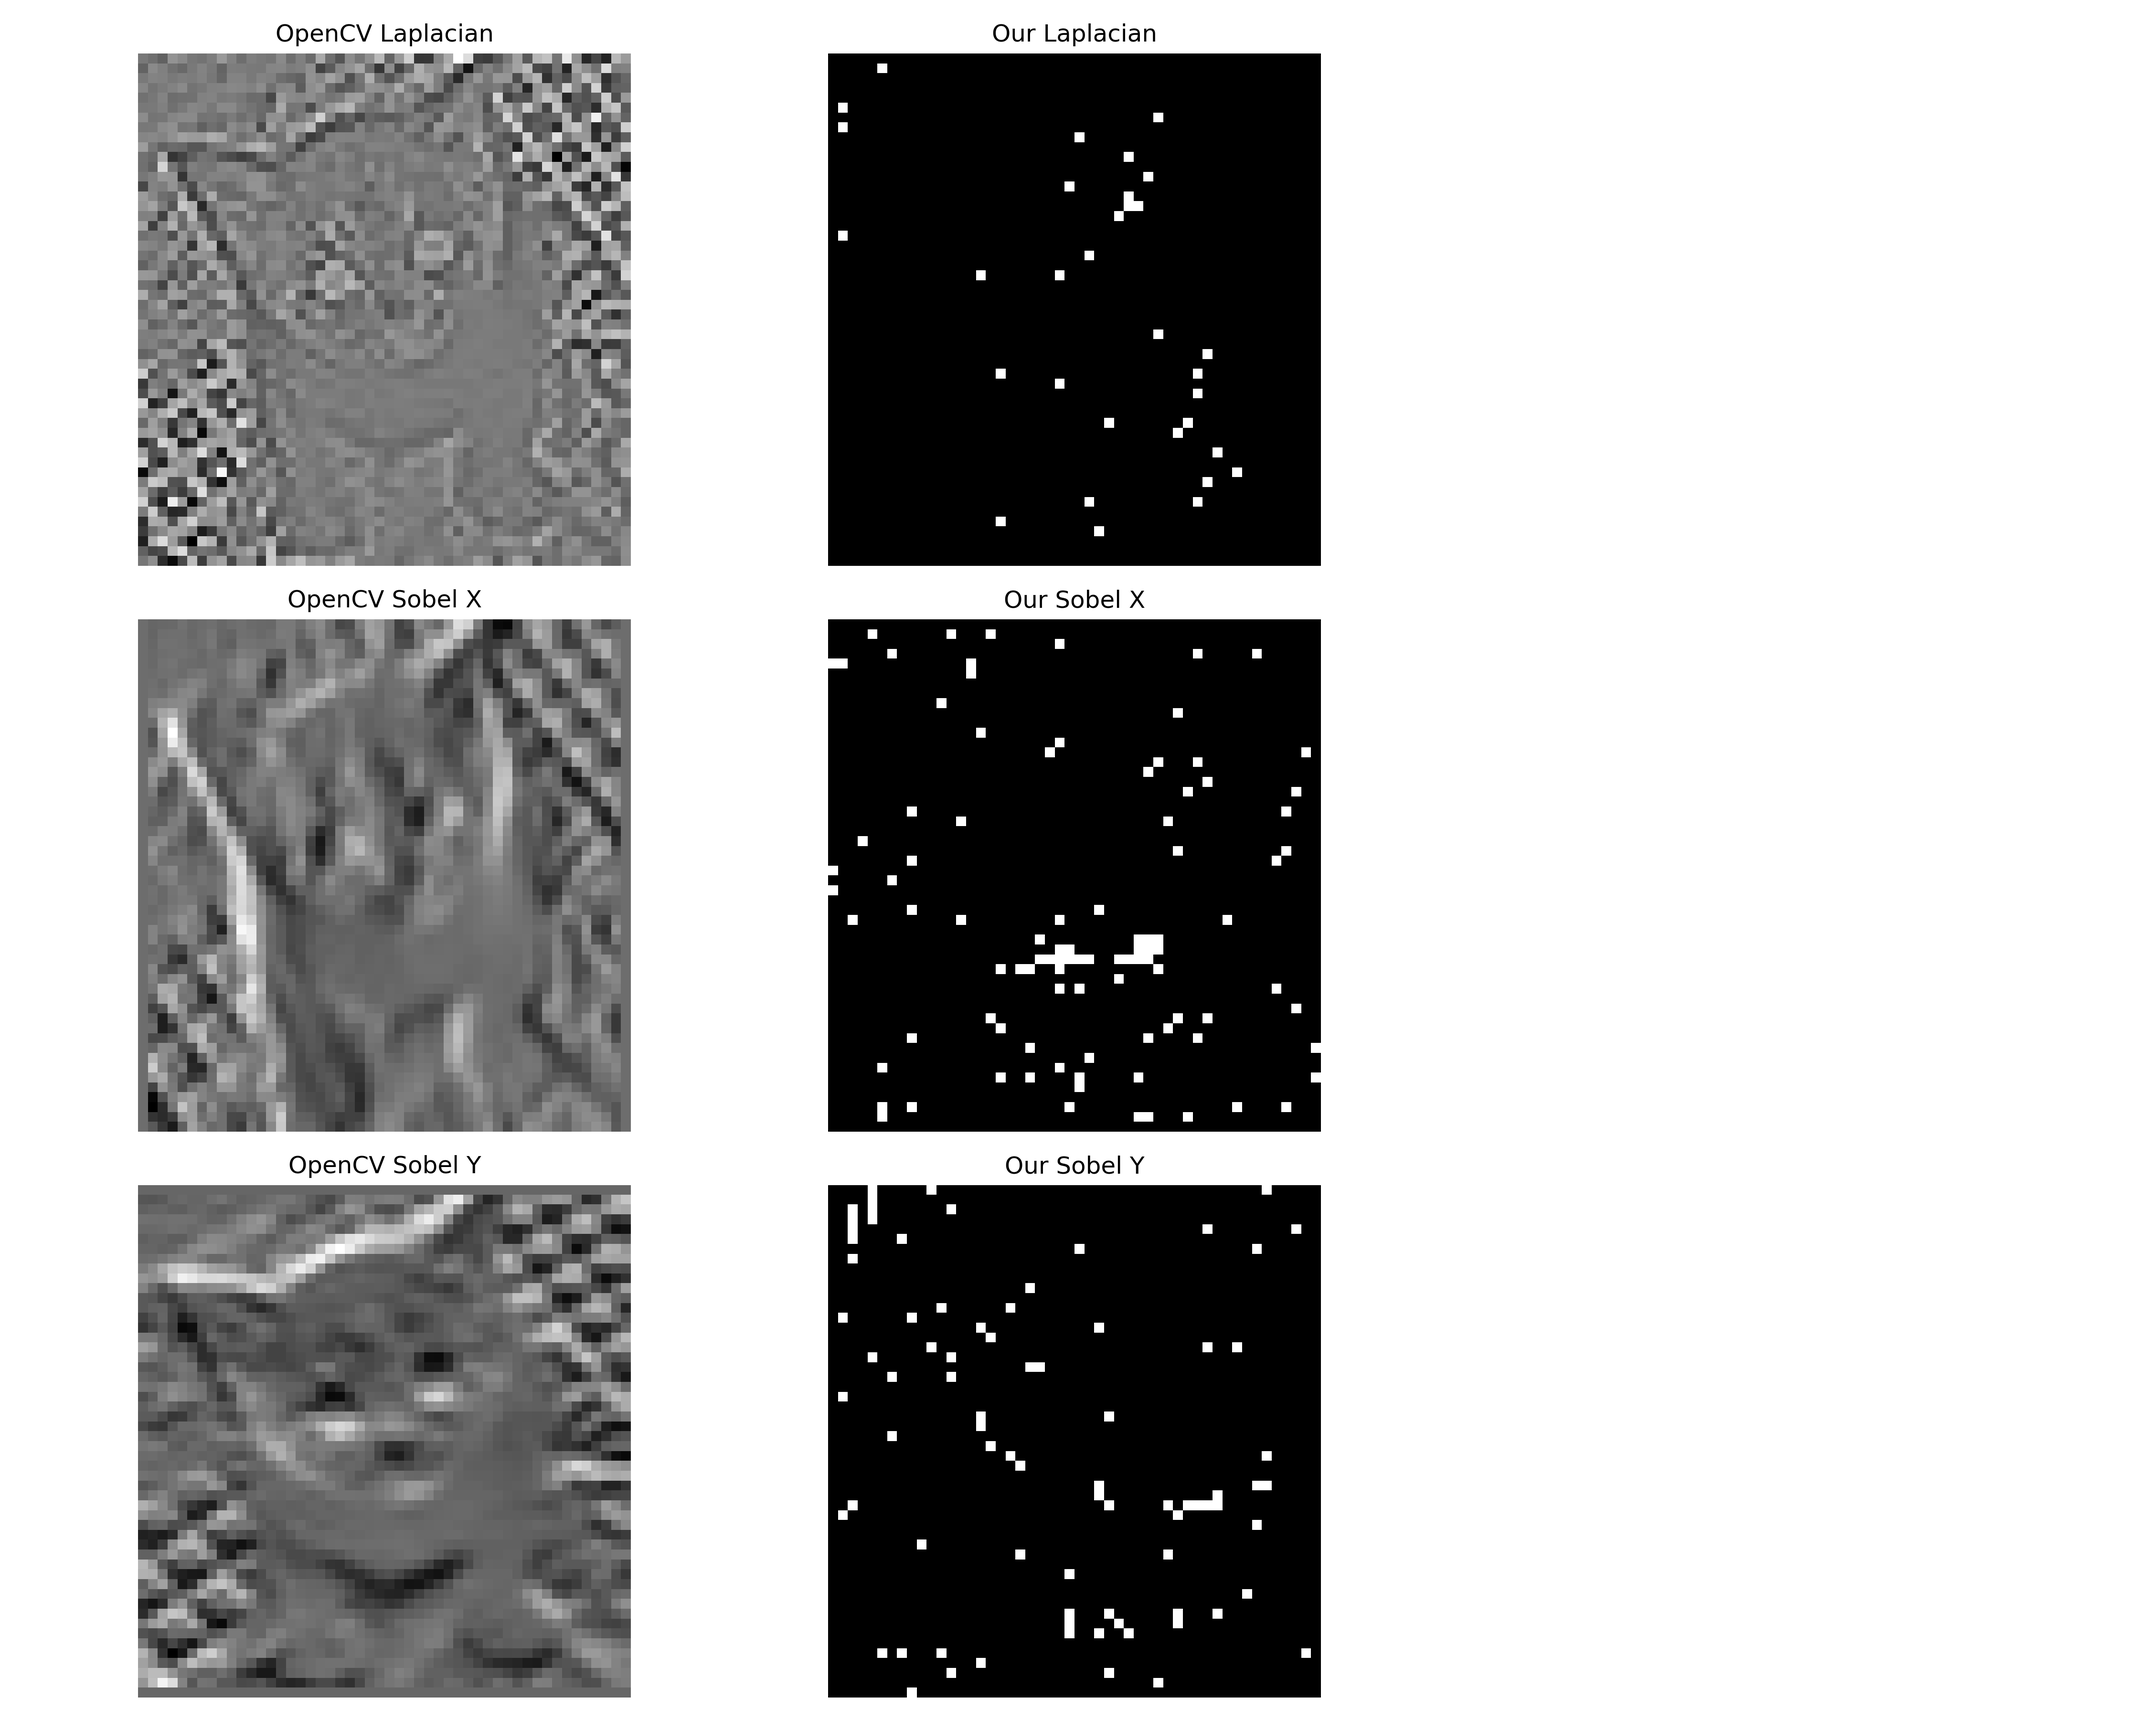
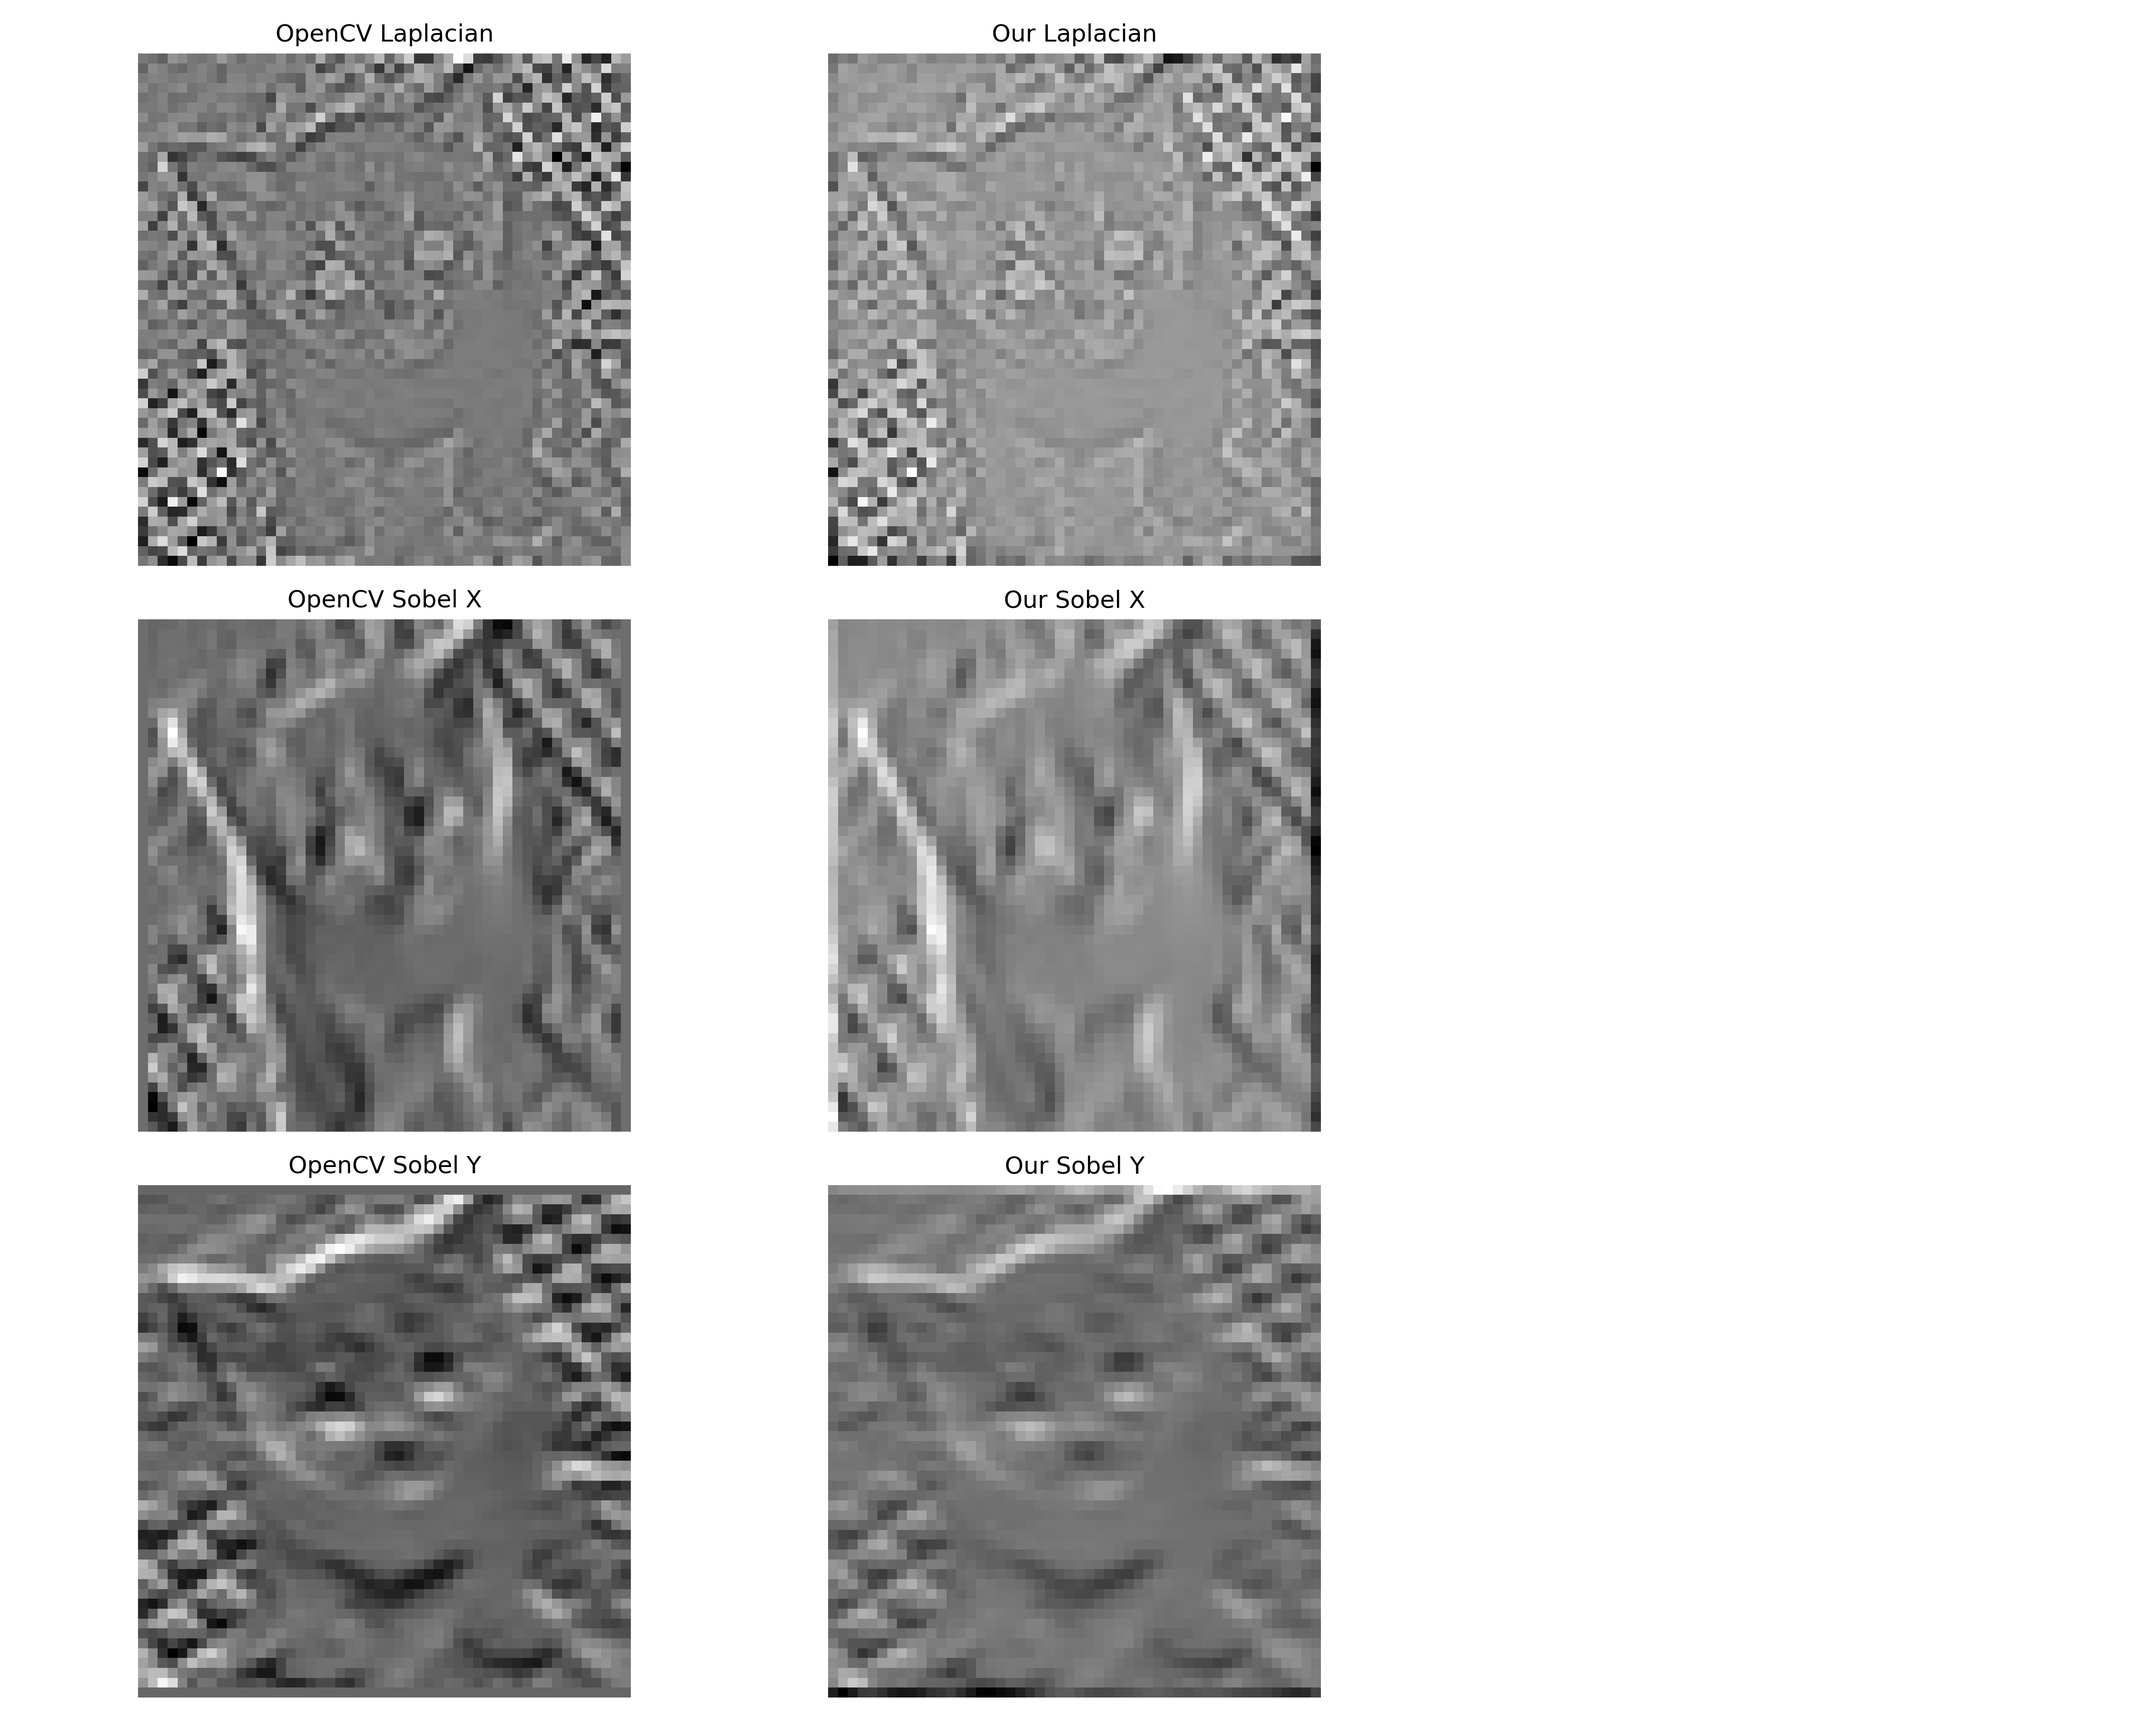
major fixes to laplacian and sobel filters; small known bugs remaining: padding of blur filters, contrast/remapped values

Changed region(s): [[0.3733, 0.0311, 0.6222, 0.9956]]

diff --git a/assignment1/filtering.py b/assignment1/filtering.py
@@ -4,7 +4,10 @@
 
 import numpy as np
 from typing import Tuple, Union
+
+# ONLY FOR TESTING
 import cv2 #delete later
+import matplotlib.pyplot as plt #delete later
 
 # 10%
 def convolve2d(image: np.ndarray, kernel: np.ndarray, padding_mode: str = 'constant') -> np.ndarray:
@@ -143,21 +146,22 @@ def laplacian_filter(image: np.ndarray, kernel_type: str = 'standard',
     # TODO: Implement the Laplacian filter
     # 1. Define the appropriate Laplacian kernel based on kernel_type
     # 2. Apply convolution using the convolve2d function
+    image = image.astype(np.float32)
+
     if kernel_type == "standard":
         kernel = np.array([
-                            [ 0, -1,  0],
-                            [-1,  4, -1],
-                            [ 0, -1,  0]
+                            [ 0, 1,  0],
+                            [1,  -4, 1],
+                            [ 0, 1,  0]
                         ])
-
     elif kernel_type == "diagonal":
         kernel = np.array([
-                            [ 0,  0, -1],
-                            [ 0,  4,  0],
-                            [-1,  0,  0]
+                            [ 1,  1, 1],
+                            [ 1,  -8,  1],
+                            [1,  1,  1]
                         ])
     res = convolve2d(image, kernel, padding_mode)
-    print("laplacian info:", res.shape, res[0])
+    # print("laplacian info:", res.shape, res[0])
     return res
 
 #10%
@@ -181,7 +185,8 @@ def sobel_filter(image: np.ndarray, direction: str = 'both', kernel_size: int = 
     # 2. Apply convolution based on the specified direction
     # 3. For 'both' direction, compute gradient magnitude and direction
     # 4. Return appropriate output based on direction parameter
-    
+    image = image.astype(np.float32)
+
     sobel_x = np.zeros((kernel_size, kernel_size))
     sobel_y = np.zeros((kernel_size, kernel_size))
     
@@ -201,8 +206,8 @@ def sobel_filter(image: np.ndarray, direction: str = 'both', kernel_size: int = 
 
     for i in range(kernel_size):
         for j in range(kernel_size):
-            sobel_x[i,j] = i - center
-            sobel_y[i,j] = j - center
+            sobel_x[i,j] = j - center
+            sobel_y[i,j] = i - center
 
     sobel_x /= np.sum(np.abs(sobel_x))
     sobel_y /= np.sum(np.abs(sobel_y))
@@ -229,7 +234,9 @@ def normalize_image(image: np.ndarray) -> np.ndarray:
     Normalize image values to range [0, 255] and convert to uint8.
     """
     min_val = np.min(image)
+    # print(min_val)
     max_val = np.max(image)
+    # print(max_val)
     
     # Check to avoid division by zero
     if max_val == min_val:
@@ -273,7 +280,6 @@ def add_noise(image: np.ndarray, noise_type: str = 'gaussian', var: float = 0.01
     else:
         raise ValueError("Unknown noise type. Use 'gaussian' or 'salt_pepper'")
     
-
 # ----------------------- HELPER FUNCTIONS ---------------------------
 def convolve_single_channel(image, kernel, padding_mode):
     n, m = kernel.shape
@@ -295,17 +301,3 @@ def convolve_single_channel(image, kernel, padding_mode):
             output[row-half_n, col-half_m] = np.sum(selection * kernel)
             
     return output
-
-#================================== DELETE LATER / SIMPLE TESTING
-image_path = "assignment1/example_images/test.jpg"
-image = cv2.imread(image_path)
-if image is None:
-    raise ValueError(f"Could not read image at {image_path}")
-
-# Convert to RGB for display
-image_rgb = cv2.cvtColor(image, cv2.COLOR_BGR2RGB)
-
-# Convert to grayscale for edge detection
-gray = cv2.cvtColor(image, cv2.COLOR_BGR2GRAY)
-
-##================================== STOP DELETE

diff --git a/assignment1/test_filters.py b/assignment1/test_filters.py
@@ -397,7 +397,30 @@ def test_all(image_path: str, output_dir: str = "filter_results"):
 
 if __name__ == "__main__":
     # Replace with the path to your test image
-    test_image_path = "assignment1/example_images/50px.jpg"
+    #test_image_path = "assignment1/example_images/test.jpg"
     
     # Run all tests
-    test_all(test_image_path)
+    #test_all(test_image_path)
+
+    test_image_paths = [
+    "assignment1/example_images/test.jpg",
+    "assignment1/example_images/50px.jpg",
+    "assignment1/example_images/100px.png",
+    "assignment1/example_images/500px.jpg",
+    ]
+
+    for path in test_image_paths:
+        print(f"\n Running tests on: {path}")
+        try:
+            test_all(path)
+        except TypeError as e:
+            print(f"Skipping {path} due to TypeError: {e}")
+        except Exception as e:
+            print(f"Unexpected error on {path}: {e}")
+
+    
+
+
+
+
+    
